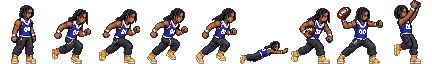
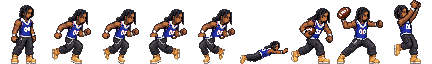
Skins dive flat instead of head-first into the ground; 00 King and Cross get a real run cycle (legs alternate and pass under)
Claude-Session: https://claude.ai/code/session_01KirbJZJJg33BNfTzYAJNsb

Changed region(s): [[0.2106, 0.125, 0.5718, 1.0], [0.3912, 0.125, 0.4213, 0.1562]]

diff --git a/index.html b/index.html
@@ -1503,7 +1503,8 @@ function drawMan(c,x,y,lk,o){
  o=o||{};const u=o.u||2;
  c.save();c.translate(Math.round(x),Math.round(y));
  if(o.shadow!==false){c.fillStyle='rgba(0,0,0,.28)';c.fillRect(-5*u,-u,10*u,2*u);}
- if(o.down){c.translate(0,-5*u);c.rotate((o.face<0?-1:1)*Math.PI/2);}
+ const skinOn=!!(lk.spr&&SKINS.img[lk.spr]);
+ if(o.down&&!(o.dive&&skinOn)){c.translate(0,-5*u);c.rotate((o.face<0?-1:1)*Math.PI/2);}   /* skin dive frames are already drawn lying flat */
  if(o.face<0)c.scale(-1,1);
  const fr=o.hurdle||o.pose?-1:o.fr!=null?o.fr:(o.run?Math.floor((o.t||0)*9)%4:-1),bob=(fr===1||fr===3)?-u:0;
  if(lk.spr&&SKINS.img[lk.spr]&&drawSkin(c,lk,o,fr,u)){c.restore();return;}
